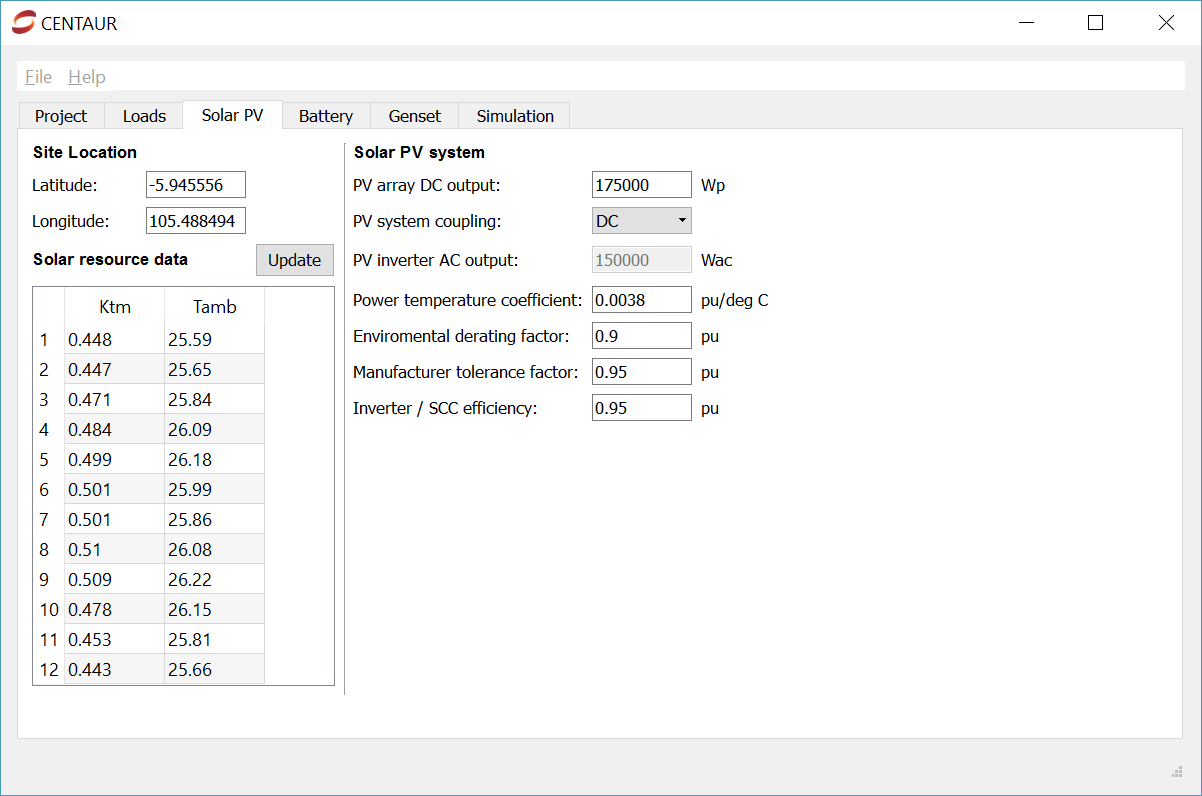
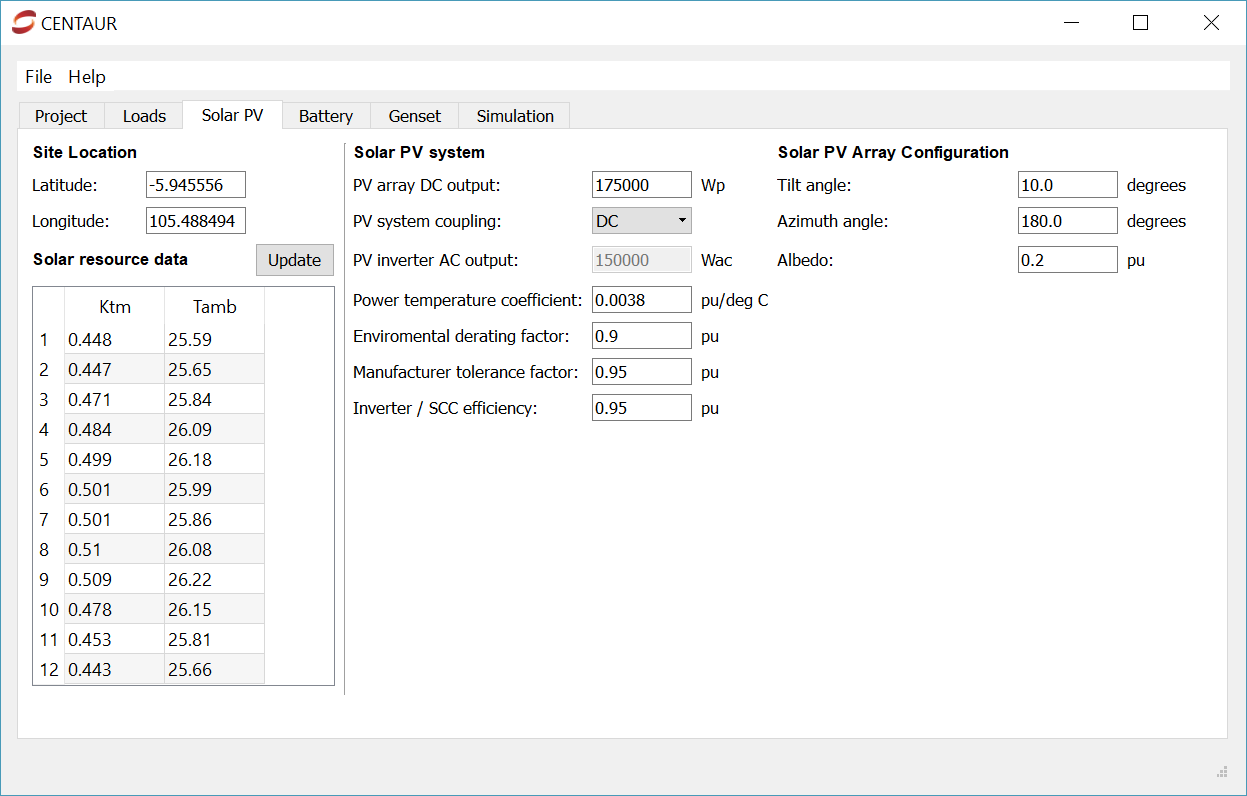
Added calculation for incident PV radiation on tilted surface
Added calculations for incident PV radiation on a tilted surface,
including three new inputs: tilt angle, azimuth and albedo (ground
reflectance).

Calculation for incident radiation is based on HDKR model.

diff --git a/engine/synth_solar.py b/engine/synth_solar.py
@@ -5,7 +5,7 @@
 Synthetic Solar Radiation Module
 Copyright (C) 2014-2017 Julius Susanto
 
-Last edited: December 2017
+Last edited: January 2018
 
 Main Functions
 --------------
@@ -13,6 +13,9 @@ Main Functions
 - Aguiar_hourly_kt: generate sequence of hourly clearness indices for a single solar day
 - Aguiar_daily_Kt: generate sequence of daily clearness indices given mean monthly Kt
 - trend_sequence: generate annual sequence of hourly trend irradiances (no randomness)
+- incident_HDKR: generate annual sequence of hourly irradiances incident on a tilted plane with HDKR model (W/m2)
+
+Note: all hourly sequences are calculated in terms of solar time at the location (not civil time)
 
 Utility Functions
 -----------------
@@ -377,7 +380,7 @@ def Aguiar_hourly_G0(Ktm, lat):
     of synthetic daily and hourly irradiance values is used to create the sequence.
     
     Inputs: Ktm is an array of monthly mean clearness indices
-            lat is the latitude of the location (in decimals)
+            lat is the latitude of the location (in decimal degrees)
     """
     days = [31, 28, 31, 30, 31, 30, 31, 31, 30, 31, 30, 31] 
     
@@ -392,7 +395,7 @@ def Aguiar_hourly_G0(Ktm, lat):
     # Generate hourly clearness indices for each hour in the year
     kt = []
     for d in range(365):
-        kti = Aguiar_hourly_kt(Kt[d], d, lat, 10)
+        kti = Aguiar_hourly_kt(Kt[d], d+1, lat, 10)
         kt.extend(kti)
     
     # Generate trend irradiances for each hour in the year
@@ -401,4 +404,73 @@ def Aguiar_hourly_G0(Ktm, lat):
     # Calculate synthetic irradiance for each hour of the year
     G0 = G0c * np.array(kt)
     
-    return G0
+    return G0, kt
+    
+def incident_HDKR(G0, Kt, lat, tilt, azimuth, albedo):
+    """
+    Generates an annual sequence of hourly irradiances incident on a tilted surface (W/m2)
+    Calculations based on Hay, Davies, Klucher and Reindl (HDKR) model.
+    
+    Inputs: G0 is an array of hourly global horizontal irradiances
+            Kt is an array of hourly clearness indices
+            lat is the latitude of the location (in decimal degrees)
+            tilt is the tilt angle of the surface (in degrees)
+            azimuth is the azimuthal angle of the surface (in degrees)
+            albedo is the ground reflectance (in per unit - 0.0 = 0%, 1.0 = 100%)
+    """
+    
+    phi = np.radians(lat)
+    beta = np.radians(tilt)
+    gamma = np.radians(azimuth)
+    
+    # Generate trend (extraterrestrial) irradiances for each hour in the year
+    G0c = trend_sequence(lat)
+    
+    # Set up hour angles for each hour of the year
+    h = np.array(list(np.arange(1,25)) * 365)
+    omega = (h - 12.5) * np.pi / 12     # Hour angle at centre of each hour (0 is solar noon)
+    
+    # Calculate declination for every hour of the year
+    dec_d = []
+    for d in range(1,366):
+        dec_d.append(declination(d))    
+    delta = np.repeat(np.array(dec_d), 24)
+    
+    # Calculate angle of incidence on tilted surface for every hour of the year
+    cos_theta = np.sin(delta) * np.sin(phi) * np.cos(beta) - np.sin(delta) * np.cos(phi) * np.sin(beta) * np.cos(gamma) + np.cos(delta) * np.cos(phi) * np.cos(beta) * np.cos(omega) + np.cos(delta) * np.sin(phi) * np.sin(beta) * np.cos(gamma) * np.cos(omega) + np.cos(delta) * np.sin(beta) * np.sin(gamma) * np.sin(omega)
+    
+    # Calculate zenith angle for every hour of the year
+    cos_theta_z = np.cos(phi) * np.cos(delta) * np.cos(omega) + np.sin(phi) * np.sin(delta)
+    
+    # Ratio of beam radiation on tilted surface to beam radiation on horizontal surface
+    Rb = cos_theta / cos_theta_z
+    
+    # Diffuse fraction for each hour of the year
+    Df = []
+    for i in range(8760):
+        if Kt[i] <= 0.22:
+            Df.append(1.0 - 0.09 * Kt[i])
+        elif Kt[i] > 0.22 and Kt[i] <= 0.8:
+            Df.append(0.9511 - 0.1604 * Kt[i] + 4.388 * Kt[i] ** 2 - 16.638 * Kt[i] ** 3 + 12.336 * Kt[i] ** 4)
+        else:
+            Df.append(0.165)
+    Df = np.array(Df)
+    
+    # Beam radiation
+    Gb = (np.ones(8760) - Df) * G0
+    Gd = Df * G0
+    
+    f = np.zeros(8760)
+    Ai = np.zeros(8760)
+    for i in range(8760):
+        if G0[i] > 0:
+            # Horizon brightening factor
+            f[i] = np.sqrt(Gb[i] / G0[i])
+    
+            # Anisotropy index
+            Ai[i] = Gb[i] / G0c[i]
+    
+    # Global radiation incident on PV array (HDKR model)
+    Gt = (Gb + Gd * Ai) * Rb + Gd * (np.ones(8760) - Ai) * (1 + np.cos(beta)) / 2 * (np.ones(8760) + f * np.sin(beta/2) ** 3) + G0 * albedo * (1 - np.cos(beta)) / 2
+    
+    return Gt

diff --git a/gui/gui_solar.py b/gui/gui_solar.py
@@ -97,6 +97,27 @@ class solar_ui(QtGui.QWidget):
         self.edit_eff = QtGui.QLineEdit()
         self.edit_eff.setFixedWidth(100)
         
+        title4 = QtGui.QLabel('Solar PV Array Configuration')
+        title4.setFont(QtGui.QFont('arial', weight=QtGui.QFont.Bold))
+        
+        label11a = QtGui.QLabel('Tilt angle:')
+        label11b = QtGui.QLabel('degrees')
+        
+        self.edit_tilt = QtGui.QLineEdit()
+        self.edit_tilt.setFixedWidth(100)
+        
+        label12a = QtGui.QLabel('Azimuth angle:')
+        label12b = QtGui.QLabel('degrees')
+        
+        self.edit_azimuth = QtGui.QLineEdit()
+        self.edit_azimuth.setFixedWidth(100)
+        
+        label13a = QtGui.QLabel('Albedo:')
+        label13b = QtGui.QLabel('pu')
+        
+        self.edit_albedo = QtGui.QLineEdit()
+        self.edit_albedo.setFixedWidth(100)
+        
         layout = QtGui.QGridLayout()
         layout.addWidget(title1, 0, 0)
         layout.addWidget(label1, 1, 0)
@@ -107,6 +128,7 @@ class solar_ui(QtGui.QWidget):
         layout.addWidget(update_button, 3, 2)
         layout.addWidget(self.tableWidget, 4, 0, 10, 3)
         layout.addWidget(vline, 0, 4, 15, 4)
+        
         layout.addWidget(title3, 0, 5)
         layout.addWidget(label4a, 1, 5)
         layout.addWidget(self.edit_Pstc, 1, 6)
@@ -128,6 +150,17 @@ class solar_ui(QtGui.QWidget):
         layout.addWidget(label10a, 7, 5)
         layout.addWidget(self.edit_eff, 7, 6)
         layout.addWidget(label10b, 7, 7)
+        
+        layout.addWidget(title4, 0, 8)
+        layout.addWidget(label11a, 1, 8)
+        layout.addWidget(self.edit_tilt, 1, 9)
+        layout.addWidget(label11b, 1, 10)
+        layout.addWidget(label12a, 2, 8)
+        layout.addWidget(self.edit_azimuth, 2, 9)
+        layout.addWidget(label12b, 2, 10)
+        layout.addWidget(label13a, 3, 8)
+        layout.addWidget(self.edit_albedo, 3, 9)
+        layout.addWidget(label13b, 3, 10)
         self.setLayout(layout)
         
         self.refresh_data()
@@ -140,6 +173,9 @@ class solar_ui(QtGui.QWidget):
         self.edit_ke.editingFinished.connect(utility.create_validation_hook(self, self.edit_ke, "Ke", 0, 1))
         self.edit_km.editingFinished.connect(utility.create_validation_hook(self, self.edit_km, "Km", 0, 1))
         self.edit_eff.editingFinished.connect(utility.create_validation_hook(self, self.edit_eff, "Efficiency", 0, 1))
+        self.edit_tilt.editingFinished.connect(utility.create_validation_hook(self, self.edit_tilt, "Tilt", 0, 90))
+        self.edit_azimuth.editingFinished.connect(utility.create_validation_hook(self, self.edit_azimuth, "Azimuth", -180, 180))
+        self.edit_albedo.editingFinished.connect(utility.create_validation_hook(self, self.edit_albedo, "Albedo", 0, 1))
         
         self.pv_coupling.currentIndexChanged.connect(self.update_coupling)
         update_button.clicked.connect(self.buttonClicked)
@@ -160,6 +196,9 @@ class solar_ui(QtGui.QWidget):
         globals.pv_data['k_e'] = float(self.edit_ke.text())
         globals.pv_data['k_m'] = float(self.edit_km.text())
         globals.pv_data['eff_pv'] = float(self.edit_eff.text())
+        globals.pv_data['tilt'] = float(self.edit_tilt.text())
+        globals.pv_data['azimuth'] = float(self.edit_azimuth.text())
+        globals.pv_data['albedo'] = float(self.edit_albedo.text())
     
     def update_coupling(self):
         """Update global variable for AC/DC coupling combo box"""
@@ -213,6 +252,9 @@ class solar_ui(QtGui.QWidget):
         self.edit_ke.setText(str(globals.pv_data['k_e']))
         self.edit_km.setText(str(globals.pv_data['k_m']))
         self.edit_eff.setText(str(globals.pv_data['eff_pv']))
+        self.edit_tilt.setText(str(globals.pv_data['tilt']))
+        self.edit_azimuth.setText(str(globals.pv_data['azimuth']))
+        self.edit_albedo.setText(str(globals.pv_data['albedo']))
             
 class SolarTable(utility.CentaurTable): 
     """Modified version of LowFi table specifically for the Right Of Way tab."""

diff --git a/engine/chron_sim.py b/engine/chron_sim.py
@@ -83,11 +83,17 @@ def run_sim(sys_dict, pv_dict, batt_dict, gen_dict, load_dict):
         gamma = pv_dict['gamma']
         eff_pv = pv_dict['eff_pv']
         pv_cpl = pv_dict['pv_cpl']
+        tilt = pv_dict['tilt']
+        azimuth = pv_dict['azimuth']
+        albedo = pv_dict['albedo']
         
-        # Generate hourly data for solar radiation for one year
-        G0 = synth_solar.Aguiar_hourly_G0(Ktm, lat)
-
+        # Generate hourly data for solar radiation and clearness indices for one year
+        G0, Kt = synth_solar.Aguiar_hourly_G0(Ktm, lat)
+        GT = synth_solar.incident_HDKR(G0, Kt, lat, tilt, azimuth, albedo)
+        
         # PV module temperature derating for whole year
+        # Effective cell temperature: temp_eff = temp_ambient + temp_STC (25 deg)
+        # Temperature derating = 1 - gamma * (temp_eff - temp_STC) = 1 - gamma * temp_ambient
         k_t = []
         days = [31, 28, 31, 30, 31, 30, 31, 31, 30, 31, 30, 31]
         for i in range(12):
@@ -96,12 +102,13 @@ def run_sim(sys_dict, pv_dict, batt_dict, gen_dict, load_dict):
 
         # PV array output for every hour of the year
         P_d = np.multiply(np.array(k_t), P_stc * k_e * k_m / 1000)
-        P_pv = np.multiply(np.array(G0), P_d) * eff_pv          # PV output (including inverter/SCC efficiency)
+        P_pv = np.multiply(np.array(GT), P_d) * eff_pv          # PV output (including inverter/SCC efficiency)
         # Limit PV output to inverter rating for AC coupled systems
         if pv_cpl == 'AC':
             P_pv = np.clip(P_pv, None, P_inv)
         
         sim_out['G0'] = G0
+        sim_out['GT'] = GT
         sim_out['P_pv'] = P_pv
         
     if is_gen:

diff --git a/gui/gui_sim.py b/gui/gui_sim.py
@@ -151,6 +151,7 @@ class sim_ui(QtGui.QWidget):
             
         if topo[0] in [1,2,3]:
             G0 = self.sim_out['G0']
+            GT = self.sim_out['GT']
             P_pv = self.sim_out['P_pv']
             E_exc = sum(self.sim_out['P_pv_exc'])
             E_sol = sum(P_pv) - E_exc
@@ -196,6 +197,7 @@ class sim_ui(QtGui.QWidget):
             self.write('SOLAR PV SYSTEM \n')
             self.write('--------------- \n')
             self.write('Total GHI: ' + str(round(sum(self.sim_out['G0'])/1000,2)) + ' kWh/m2 per year\n')
+            self.write('Total incident radiation: ' + str(round(sum(self.sim_out['GT'])/1000,2)) + ' kWh/m2 per year\n')
             self.write('Total solar PV system output: ' + str(round(sum(P_pv)/1000,2)) + ' kWh (including inverter/SCC losses)\n')
             self.write('Useful solar PV energy: ' + str(round(E_sol/1000,2)) + ' kWh (' + str(round(E_sol/sum(P_pv)*100,2)) + '% of total solar output)\n')
             self.write('Excess solar PV energy: ' + str(round(E_exc/1000,2)) + ' kWh (' + str(round(E_exc/sum(P_pv)*100,2)) + '% of total solar output)\n')

diff --git a/gui/globals.py b/gui/globals.py
@@ -62,7 +62,10 @@ def init():
         'P_stc'  : 175000,              # PV system output at STC (Wp)
         'gamma'  : 0.0038,              # Power temperature coefficient (pu per deg C)
         'eff_pv' : 0.95,                # Efficiency of PV inverter (AC coupled) or charge controller (DC coupled) in pu
-        'pv_cpl' : 'DC'                 # PV coupling - AC or DC
+        'pv_cpl' : 'DC',                # PV coupling - AC or DC
+        'tilt'   : 10.0,                # Tilt angle
+        'azimuth' : 180.0,              # Azimuth angle
+        'albedo' : 0.2                  # Albedo / ground reflectance
         }
     
     loads = np.array([[43.9, 43.9],   # 00:00
